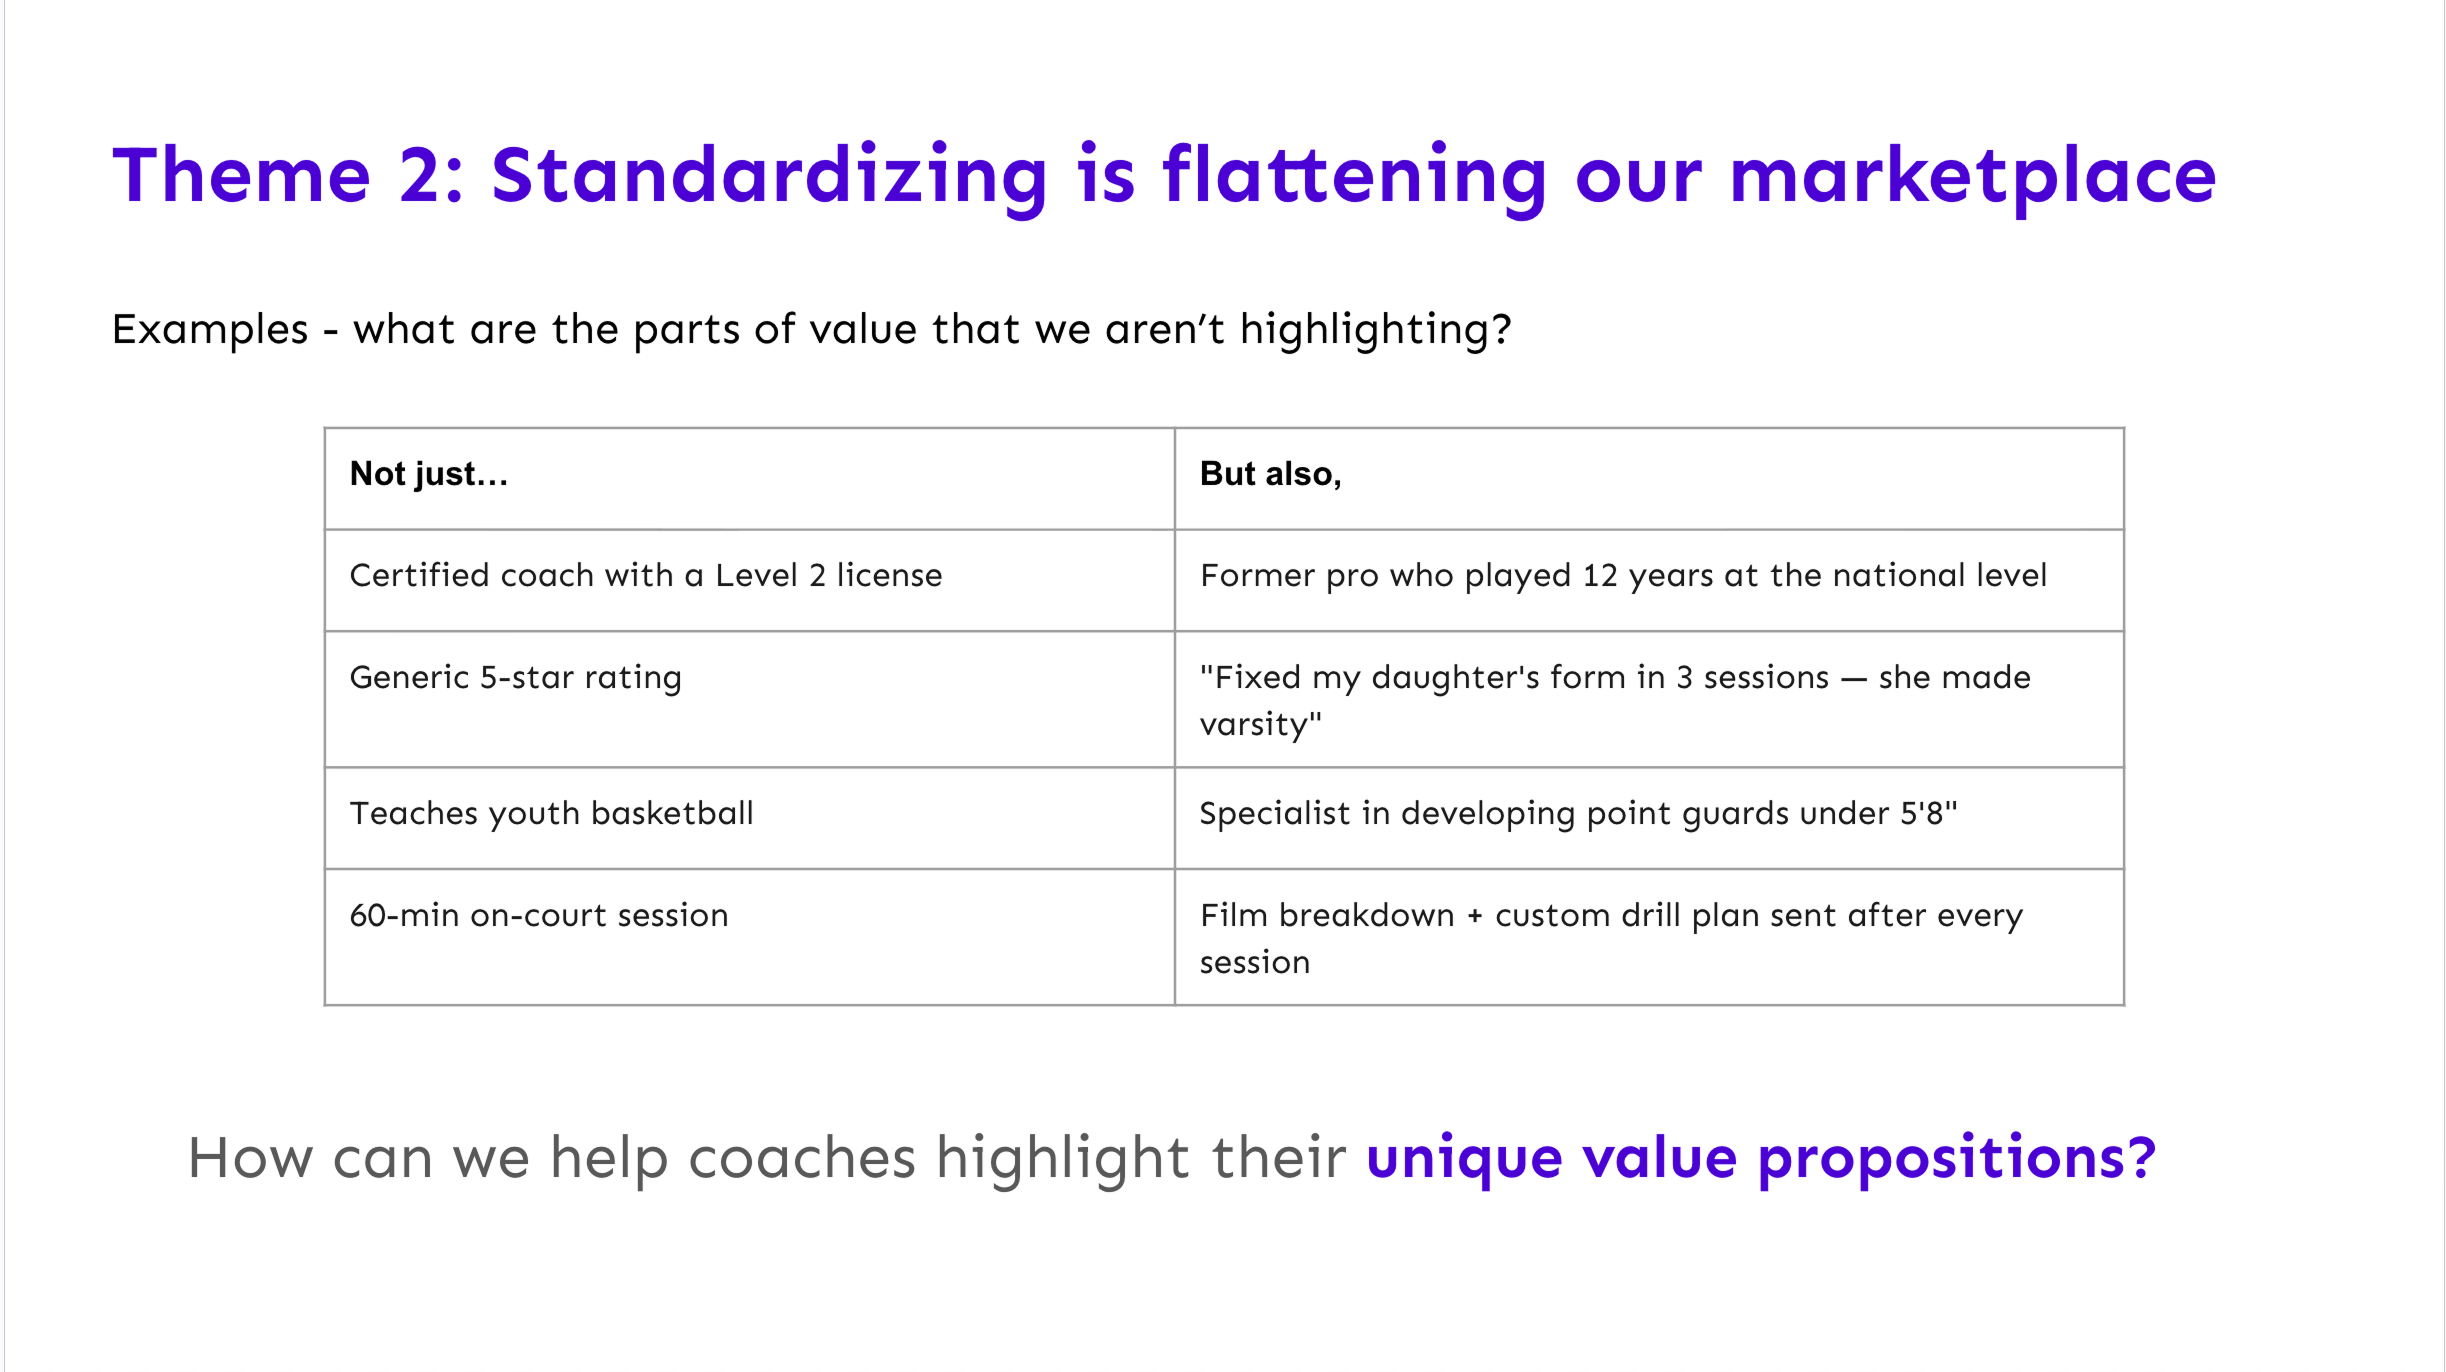
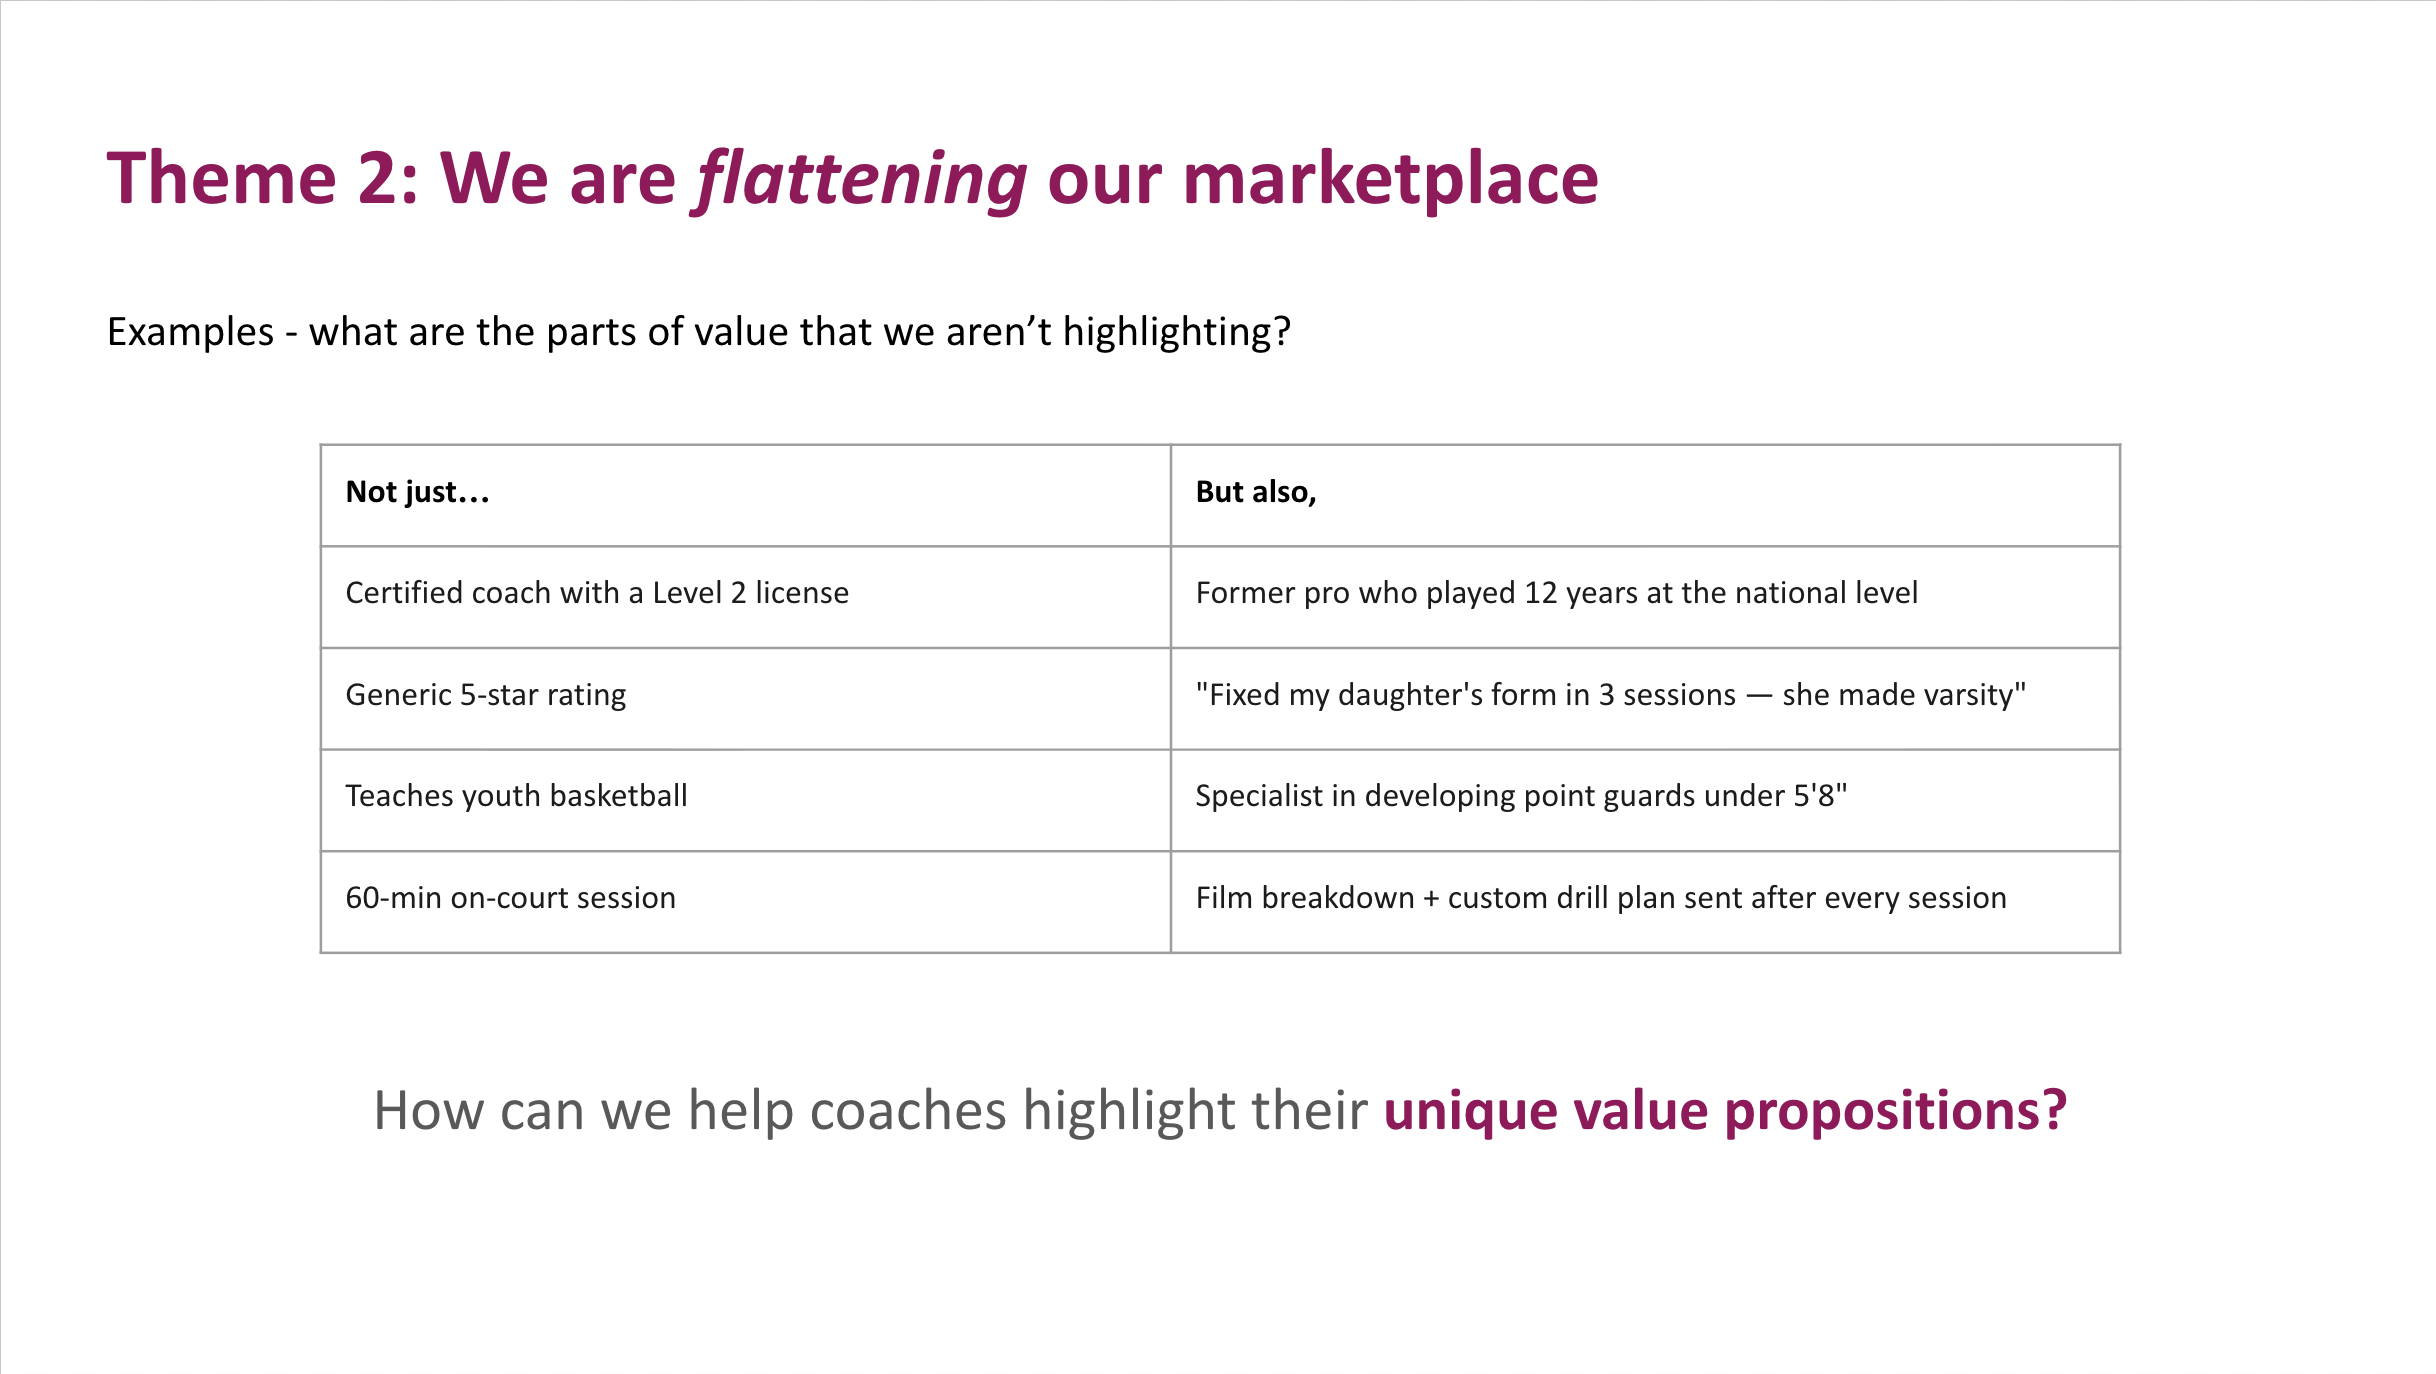
commit changes w/ images, loading bar

diff --git a/src/components/cube/hooks/useDynamicTextures.ts b/src/components/cube/hooks/useDynamicTextures.ts
@@ -10,6 +10,7 @@ interface DynamicTextureState {
   textures: (THREE.CanvasTexture | null)[];
   canvases: Map<FaceId, HTMLCanvasElement>;
   ready: boolean;
+  loadedCount: number;
 }
 
 /**
@@ -285,6 +286,7 @@ export function useDynamicTextures(skip = false) {
     textures: FACE_INDEX_TO_ID.map(() => null),
     canvases: new Map(),
     ready: false,
+    loadedCount: 0,
   });
   const texturesRef = useRef<(THREE.CanvasTexture | null)[]>(
     FACE_INDEX_TO_ID.map(() => null)
@@ -314,10 +316,12 @@ export function useDynamicTextures(skip = false) {
     if (idx !== -1) {
       texturesRef.current[idx]?.dispose();
       texturesRef.current[idx] = texture;
+      const loaded = texturesRef.current.filter((t) => t !== null).length;
       setState({
         textures: [...texturesRef.current],
         canvases: new Map(canvasesRef.current),
-        ready: texturesRef.current.every((t) => t !== null),
+        ready: loaded === FACE_INDEX_TO_ID.length,
+        loadedCount: loaded,
       });
     }
   }, []);
@@ -576,6 +580,8 @@ export function useDynamicTextures(skip = false) {
   return {
     textures: state.textures,
     ready: state.ready,
+    loadedCount: state.loadedCount,
+    totalCount: FACE_INDEX_TO_ID.length,
     getCanvas,
     requestCapture,
     requestAll,

diff --git a/src/components/cube/PersistentCubeProvider.tsx b/src/components/cube/PersistentCubeProvider.tsx
@@ -23,6 +23,8 @@ interface PersistentCubeContextValue {
   faceContentHidden: boolean;
   setActiveFace: (faceId: FaceId | null) => void;
   texturesReady: boolean;
+  texturesLoadedCount: number;
+  texturesTotalCount: number;
 }
 
 const PersistentCubeContext = createContext<PersistentCubeContextValue | null>(null);
@@ -68,7 +70,7 @@ export function PersistentCubeProvider({ children }: { children: ReactNode }) {
   useEffect(() => {
     setIsIframe(window.self !== window.top);
   }, []);
-  const { textures: dynamicTextures, ready: texturesReady, requestCapture, requestAll } = useDynamicTextures(isIframe);
+  const { textures: dynamicTextures, ready: texturesReady, loadedCount, totalCount, requestCapture, requestAll } = useDynamicTextures(isIframe);
 
   // Capture front face immediately (fastest visible result), then all others after
   // a short delay so the front face has a head start on network resources.
@@ -206,6 +208,8 @@ export function PersistentCubeProvider({ children }: { children: ReactNode }) {
         faceContentHidden,
         setActiveFace: handleSetActiveFace,
         texturesReady,
+        texturesLoadedCount: loadedCount,
+        texturesTotalCount: totalCount,
       }}
     >
       {/* Persistent cube layer — always mounted, behind everything */}

diff --git a/src/components/LoadingScreen.tsx b/src/components/LoadingScreen.tsx
@@ -12,7 +12,7 @@ const CUBE_FACTS = [
 ];
 
 export default function LoadingScreen() {
-  const { texturesReady } = usePersistentCube();
+  const { texturesReady, texturesLoadedCount, texturesTotalCount } = usePersistentCube();
   const [isIframe, setIsIframe] = useState(true); // default true — skip on SSR
   const [visible, setVisible] = useState(true);
   const [fading, setFading] = useState(false);
@@ -68,6 +68,14 @@ export default function LoadingScreen() {
       >
         {CUBE_FACTS[factIndex]}
       </p>
+
+      {/* Progress bar */}
+      <div className="w-40 sm:w-48 h-[3px] bg-foreground/10 rounded-full overflow-hidden">
+        <div
+          className="h-full bg-foreground/30 rounded-full transition-all duration-500 ease-out"
+          style={{ width: `${texturesTotalCount > 0 ? (texturesLoadedCount / texturesTotalCount) * 100 : 0}%` }}
+        />
+      </div>
 
       <style>{`
         .cube-loader {

diff --git a/src/app/globals.css b/src/app/globals.css
@@ -14,6 +14,11 @@
 
 html {
   overscroll-behavior: none;
+  scrollbar-width: none;
+}
+
+html::-webkit-scrollbar {
+  display: none;
 }
 
 body {
